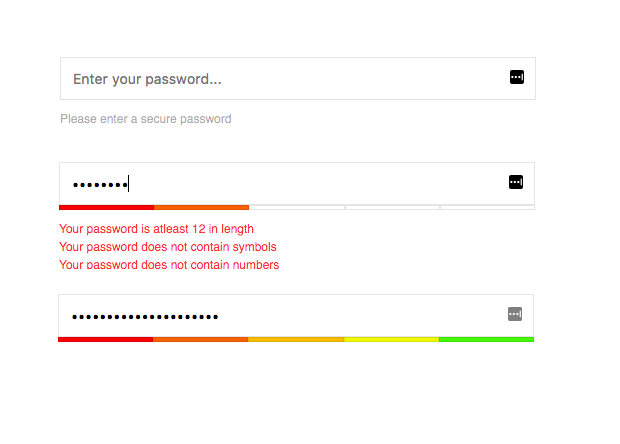
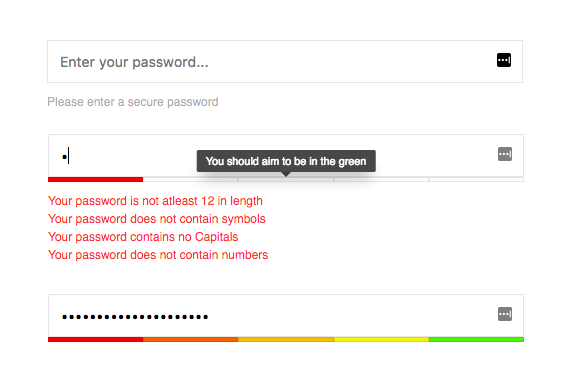
Fix spelling error in password length message

diff --git a/build/app.js b/build/app.js
@@ -1,2 +1,2 @@
-!function(t,e){"object"==typeof exports&&"object"==typeof module?module.exports=e():"function"==typeof define&&define.amd?define("app",[],e):"object"==typeof exports?exports.app=e():t.app=e()}(this,function(){return function(t){function e(r){if(n[r])return n[r].exports;var s=n[r]={i:r,l:!1,exports:{}};return t[r].call(s.exports,s,s.exports,e),s.l=!0,s.exports}var n={};return e.m=t,e.c=n,e.d=function(t,n,r){e.o(t,n)||Object.defineProperty(t,n,{configurable:!1,enumerable:!0,get:r})},e.n=function(t){var n=t&&t.__esModule?function(){return t.default}:function(){return t};return e.d(n,"a",n),n},e.o=function(t,e){return Object.prototype.hasOwnProperty.call(t,e)},e.p="",e(e.s=1)}([function(t,e,n){"use strict";Object.defineProperty(e,"__esModule",{value:!0}),e.default=function(t,e,n){return{nl:{initial:n+" ......",leng:"Your password is atleast "+n+" in length",caps:"Your password contains no Capitals",lowerCase:"Your password does not contain lower-case letters",numb:"Your password does not contain numbers",symbols:"Your password does not contain symbols",tooltip:"You should aim to be in the green"},en:{initial:"Please enter a secure password",leng:"Your password is atleast "+n+" in length",caps:"Your password contains no Capitals",lowerCase:"Your password does not contain lower-case letters",numb:"Your password does not contain numbers",symbols:"Your password does not contain symbols",tooltip:"You should aim to be in the green"}}[t][e]}},function(t,e,n){"use strict";var r=n(2),s=function(t){return t&&t.__esModule?t:{default:t}}(r);window.mySite=window.mySite||{},window.mySite.passwordChecker=function(t){var e=document.querySelector("#passwordChecker");(0,s.default)(e,t)}},function(t,e,n){"use strict";function r(t){return t&&t.__esModule?t:{default:t}}Object.defineProperty(e,"__esModule",{value:!0}),e.default=function(t,e){(0,s.viewInit)(a.default);var n=e.lang,r=t.querySelector("input");if(r){var o=(0,s.viewTemplate)("initial"),u=o(n),c=document.createElement("div");c.innerHTML=u,t.appendChild(c),(0,i.init)({container:c,passwordInput:r,config:e}),(0,l.default)()}};var s=n(3),o=n(4),a=r(o),i=n(8),u=n(9),l=r(u);n(10)},function(t,e,n){"use strict";function r(t){o=t}function s(t){var e=o.defaultView;return o[t]&&(e=o[t]),e}Object.defineProperty(e,"__esModule",{value:!0}),e.viewInit=r,e.viewTemplate=s;var o={}},function(t,e,n){"use strict";function r(t){return t&&t.__esModule?t:{default:t}}Object.defineProperty(e,"__esModule",{value:!0});var s=n(5),o=r(s),a=n(6),i=r(a),u=n(7),l=r(u);e.default={defaultView:o.default,status:l.default,message:i.default}},function(t,e,n){"use strict";Object.defineProperty(e,"__esModule",{value:!0}),e.default=function(t,e){var n=e||"initial";return'\n\t\t\t<div class="password-message-wrapper">\n\t\t\t\t'+(0,s.default)(t,n)+"\n\t\t\t</div>\n\t\t"};var r=n(0),s=function(t){return t&&t.__esModule?t:{default:t}}(r)},function(t,e,n){"use strict";Object.defineProperty(e,"__esModule",{value:!0}),e.default=function(t,e,n){var r=e||"initial";return'\n\t\t\t<div class="password-message-wrapper warning">\n\t\t\t\t'+(0,s.default)(t,r,n)+"\n\t\t\t</div>\n\t\t"};var r=n(0),s=function(t){return t&&t.__esModule?t:{default:t}}(r)},function(t,e,n){"use strict";Object.defineProperty(e,"__esModule",{value:!0}),e.default=function(t,e){return'\n\t\t\t<div\n\t\t\t\tclass="password-status-wrapper"\n\t\t\t\tdata-status="'+e+'"\n\t\t\t\tdata-tooltip="'+(0,s.default)(t,"tooltip")+'">\n\t\t\t\t<div class="status-one"></div>\n\t\t\t\t<div class="status-two"></div>\n\t\t\t\t<div class="status-three"></div>\n\t\t\t\t<div class="status-four"></div>\n\t\t\t\t<div class="status-five"></div>\n\t\t\t</div>\n\t\t'};var r=n(0),s=function(t){return t&&t.__esModule?t:{default:t}}(r)},function(t,e,n){"use strict";function r(t){o=t}function s(){return o}Object.defineProperty(e,"__esModule",{value:!0}),e.init=r,e.getState=s;var o={}},function(t,e,n){"use strict";function r(t){return t&&t.__esModule?t:{default:t}}function s(t){t.length>12?(d.leng=!0,d.strength++):d.leng=!1,0===t.length?d.empty=!0:d.empty=!1}function o(t){/[!@#$%^&*()_+\-=\[\]{};':"\\|,.<>\/?]+/.test(t)?(d.symbols=!0,d.strength++):d.symbols=!1}function a(t){var e=/[a-z]/,n=/[A-Z]/,r=/[0-9]/;e.test(t)?(d.lowercase=!0,d.strength++):d.lowercase=!1,n.test(t)?(d.caps=!0,d.strength++):d.caps=!1,r.test(t)?(d.numb=!0,d.strength++):d.numb=!1}Object.defineProperty(e,"__esModule",{value:!0}),e.checkLeng=s,e.checkSymbols=o,e.checkMixed=a,e.default=function(){var t=(0,c.getState)(),e=(t.container,t.passwordInput);e&&e.addEventListener("input",function(t){var e=t.target;if(e){var n=e.value;d.strength=0,s(n),o(n),a(n),(0,l.default)(d)}})};var i=n(0),u=(r(i),n(11)),l=r(u),c=n(8),d={leng:!1,symbols:!1,caps:!1,lowercase:!1,numb:!1,empty:!1,strength:0}},function(t,e){},function(t,e,n){"use strict";Object.defineProperty(e,"__esModule",{value:!0}),e.default=function(t){var e=(0,r.getState)(),n=e.container,o=e.config,a=o.lang,i=t.leng,u=t.symbols,l=t.caps,c=t.lowercase,d=t.numb,f=t.empty,p=t.strength,v=(0,s.viewTemplate)("message"),w=(0,s.viewTemplate)("defaultView"),m=(0,s.viewTemplate)("status");n.innerHTML="";var b=document.createElement("div");if(b.className="password-feedback",p>0){var g=m(a,p);b.innerHTML+=g}if(!1===i){var _=v(a,"leng","12");b.innerHTML+=_}if(!1===u){var y=v(a,"symbols");b.innerHTML+=y}if(!1===l){var M=v(a,"caps");b.innerHTML+=M}if(!1===c){var h=v(a,"lowerCase");b.innerHTML+=h}if(!1===d){var j=v(a,"numb");b.innerHTML+=j}if(!0===f){var T=w(a,"initial");b.innerHTML=T}n.appendChild(b)};var r=n(8),s=n(3)}])});
+!function(t,e){"object"==typeof exports&&"object"==typeof module?module.exports=e():"function"==typeof define&&define.amd?define("app",[],e):"object"==typeof exports?exports.app=e():t.app=e()}(this,function(){return function(t){function e(r){if(n[r])return n[r].exports;var s=n[r]={i:r,l:!1,exports:{}};return t[r].call(s.exports,s,s.exports,e),s.l=!0,s.exports}var n={};return e.m=t,e.c=n,e.d=function(t,n,r){e.o(t,n)||Object.defineProperty(t,n,{configurable:!1,enumerable:!0,get:r})},e.n=function(t){var n=t&&t.__esModule?function(){return t.default}:function(){return t};return e.d(n,"a",n),n},e.o=function(t,e){return Object.prototype.hasOwnProperty.call(t,e)},e.p="",e(e.s=3)}([function(t,e,n){"use strict";Object.defineProperty(e,"__esModule",{value:!0}),e.default=function(t,e,n){return{nl:{initial:n+" ......",leng:"Your password is not atleast "+n+" in length",caps:"Your password contains no Capitals",lowerCase:"Your password does not contain lower-case letters",numb:"Your password does not contain numbers",symbols:"Your password does not contain symbols",tooltip:"You should aim to be in the green"},en:{initial:"Please enter a secure password",leng:"Your password is not atleast "+n+" in length",caps:"Your password contains no Capitals",lowerCase:"Your password does not contain lower-case letters",numb:"Your password does not contain numbers",symbols:"Your password does not contain symbols",tooltip:"You should aim to be in the green"}}[t][e]}},function(t,e,n){"use strict";function r(t){o=t}function s(){return o}Object.defineProperty(e,"__esModule",{value:!0}),e.init=r,e.getState=s;var o={}},function(t,e,n){"use strict";function r(t){o=t}function s(t){var e=o.defaultView;return o[t]&&(e=o[t]),e}Object.defineProperty(e,"__esModule",{value:!0}),e.viewInit=r,e.viewTemplate=s;var o={}},function(t,e,n){"use strict";var r=n(4),s=function(t){return t&&t.__esModule?t:{default:t}}(r);window.mySite=window.mySite||{},window.mySite.passwordChecker=function(t){var e=document.querySelector("#passwordChecker");(0,s.default)(e,t)}},function(t,e,n){"use strict";function r(t){return t&&t.__esModule?t:{default:t}}Object.defineProperty(e,"__esModule",{value:!0}),e.default=function(t,e){(0,s.viewInit)(a.default);var n=e.lang,r=t.querySelector("input");if(r){var o=(0,s.viewTemplate)("initial"),u=o(n),c=document.createElement("div");c.innerHTML=u,t.appendChild(c),(0,i.init)({container:c,passwordInput:r,config:e}),(0,l.default)()}};var s=n(2),o=n(5),a=r(o),i=n(1),u=n(9),l=r(u);n(11)},function(t,e,n){"use strict";function r(t){return t&&t.__esModule?t:{default:t}}Object.defineProperty(e,"__esModule",{value:!0});var s=n(6),o=r(s),a=n(7),i=r(a),u=n(8),l=r(u);e.default={defaultView:o.default,status:l.default,message:i.default}},function(t,e,n){"use strict";Object.defineProperty(e,"__esModule",{value:!0}),e.default=function(t,e){var n=e||"initial";return'\n\t\t\t<div class="password-message-wrapper">\n\t\t\t\t'+(0,s.default)(t,n)+"\n\t\t\t</div>\n\t\t"};var r=n(0),s=function(t){return t&&t.__esModule?t:{default:t}}(r)},function(t,e,n){"use strict";Object.defineProperty(e,"__esModule",{value:!0}),e.default=function(t,e,n){var r=e||"initial";return'\n\t\t\t<div class="password-message-wrapper warning">\n\t\t\t\t'+(0,s.default)(t,r,n)+"\n\t\t\t</div>\n\t\t"};var r=n(0),s=function(t){return t&&t.__esModule?t:{default:t}}(r)},function(t,e,n){"use strict";Object.defineProperty(e,"__esModule",{value:!0}),e.default=function(t,e){return'\n\t\t\t<div\n\t\t\t\tclass="password-status-wrapper"\n\t\t\t\tdata-status="'+e+'"\n\t\t\t\tdata-tooltip="'+(0,s.default)(t,"tooltip")+'">\n\t\t\t\t<div class="status-one"></div>\n\t\t\t\t<div class="status-two"></div>\n\t\t\t\t<div class="status-three"></div>\n\t\t\t\t<div class="status-four"></div>\n\t\t\t\t<div class="status-five"></div>\n\t\t\t</div>\n\t\t'};var r=n(0),s=function(t){return t&&t.__esModule?t:{default:t}}(r)},function(t,e,n){"use strict";function r(t){return t&&t.__esModule?t:{default:t}}function s(t){t.length>12?(d.leng=!0,d.strength++):d.leng=!1,0===t.length?d.empty=!0:d.empty=!1}function o(t){/[!@#$%^&*()_+\-=\[\]{};':"\\|,.<>\/?]+/.test(t)?(d.symbols=!0,d.strength++):d.symbols=!1}function a(t){var e=/[a-z]/,n=/[A-Z]/,r=/[0-9]/;e.test(t)?(d.lowercase=!0,d.strength++):d.lowercase=!1,n.test(t)?(d.caps=!0,d.strength++):d.caps=!1,r.test(t)?(d.numb=!0,d.strength++):d.numb=!1}Object.defineProperty(e,"__esModule",{value:!0}),e.checkLeng=s,e.checkSymbols=o,e.checkMixed=a,e.default=function(){var t=(0,c.getState)(),e=(t.container,t.passwordInput);e&&e.addEventListener("input",function(t){var e=t.target;if(e){var n=e.value;d.strength=0,s(n),o(n),a(n),(0,l.default)(d)}})};var i=n(0),u=(r(i),n(10)),l=r(u),c=n(1),d={leng:!1,symbols:!1,caps:!1,lowercase:!1,numb:!1,empty:!1,strength:0}},function(t,e,n){"use strict";Object.defineProperty(e,"__esModule",{value:!0}),e.default=function(t){var e=(0,r.getState)(),n=e.container,o=e.config,a=o.lang,i=t.leng,u=t.symbols,l=t.caps,c=t.lowercase,d=t.numb,f=t.empty,p=t.strength,v=(0,s.viewTemplate)("message"),w=(0,s.viewTemplate)("defaultView"),m=(0,s.viewTemplate)("status");n.innerHTML="";var b=document.createElement("div");if(b.className="password-feedback",p>0){var g=m(a,p);b.innerHTML+=g}if(!1===i){var _=v(a,"leng","12");b.innerHTML+=_}if(!1===u){var y=v(a,"symbols");b.innerHTML+=y}if(!1===l){var M=v(a,"caps");b.innerHTML+=M}if(!1===c){var h=v(a,"lowerCase");b.innerHTML+=h}if(!1===d){var j=v(a,"numb");b.innerHTML+=j}if(!0===f){var T=w(a,"initial");b.innerHTML=T}n.appendChild(b)};var r=n(1),s=n(2)},function(t,e){}])});
 //# sourceMappingURL=app.js.map

diff --git a/src/lang/index.js b/src/lang/index.js
@@ -2,7 +2,7 @@ export default function(lang, key, value) {
 	const translations = {
 		nl: {
 			initial: `${value} ......`,
-			leng: `Your password is atleast ${value} in length`,
+			leng: `Your password is not atleast ${value} in length`,
 			caps: `Your password contains no Capitals`,
 			lowerCase: `Your password does not contain lower-case letters`,
 			numb: `Your password does not contain numbers`,
@@ -11,7 +11,7 @@ export default function(lang, key, value) {
 		},
 		en: {
 			initial: `Please enter a secure password`,
-			leng: `Your password is atleast ${value} in length`,
+			leng: `Your password is not atleast ${value} in length`,
 			caps: `Your password contains no Capitals`,
 			lowerCase: `Your password does not contain lower-case letters`,
 			numb: `Your password does not contain numbers`,
